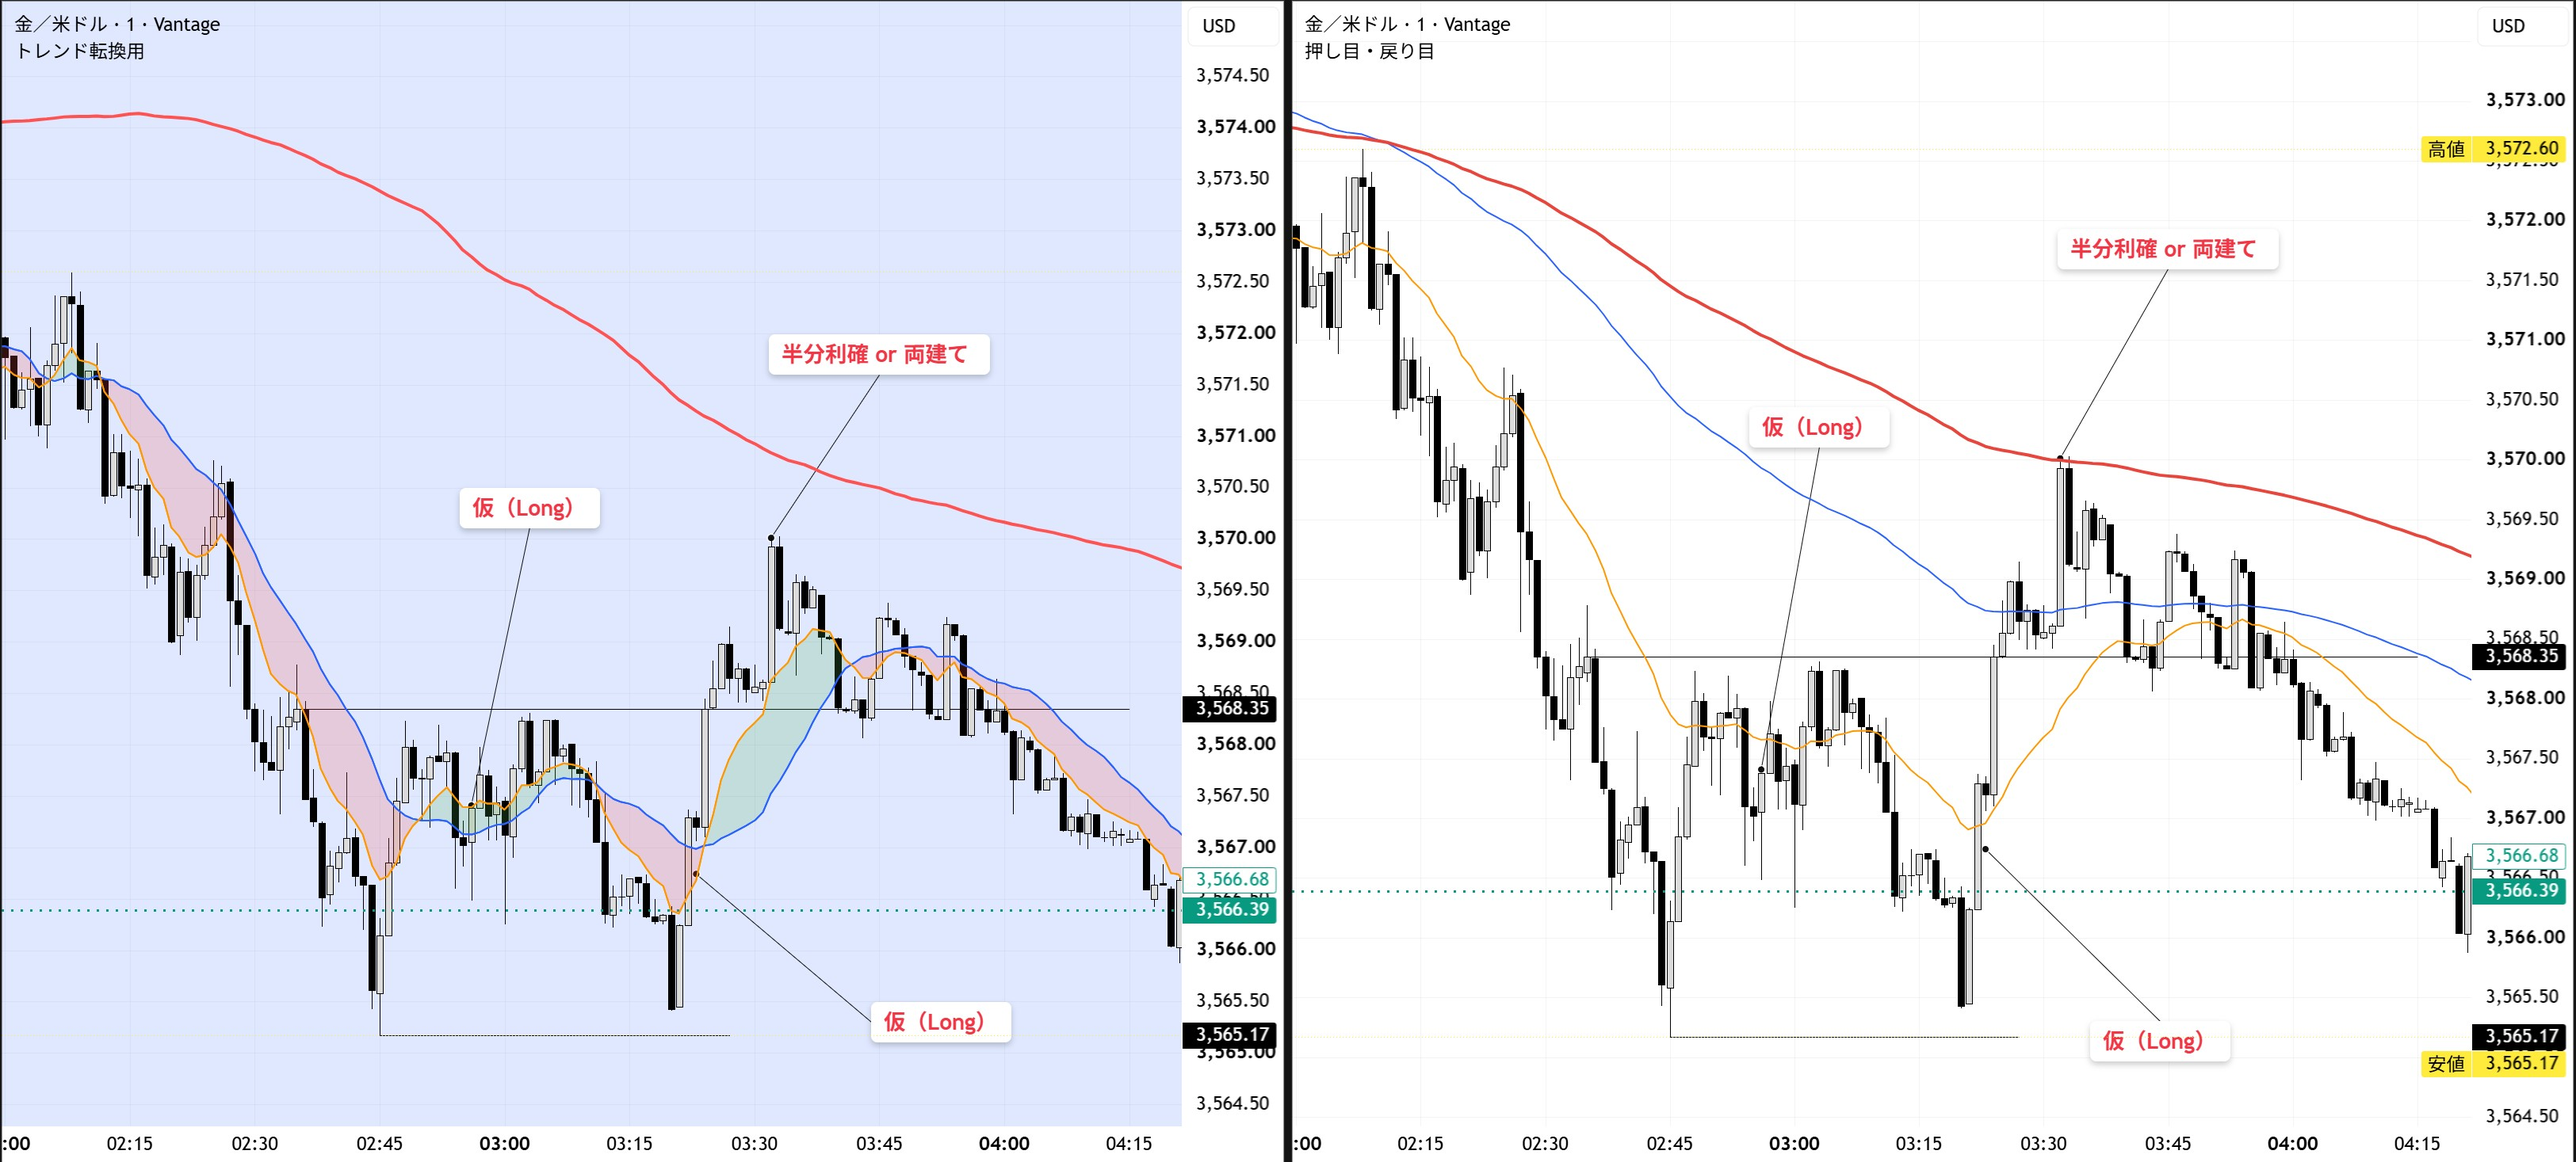
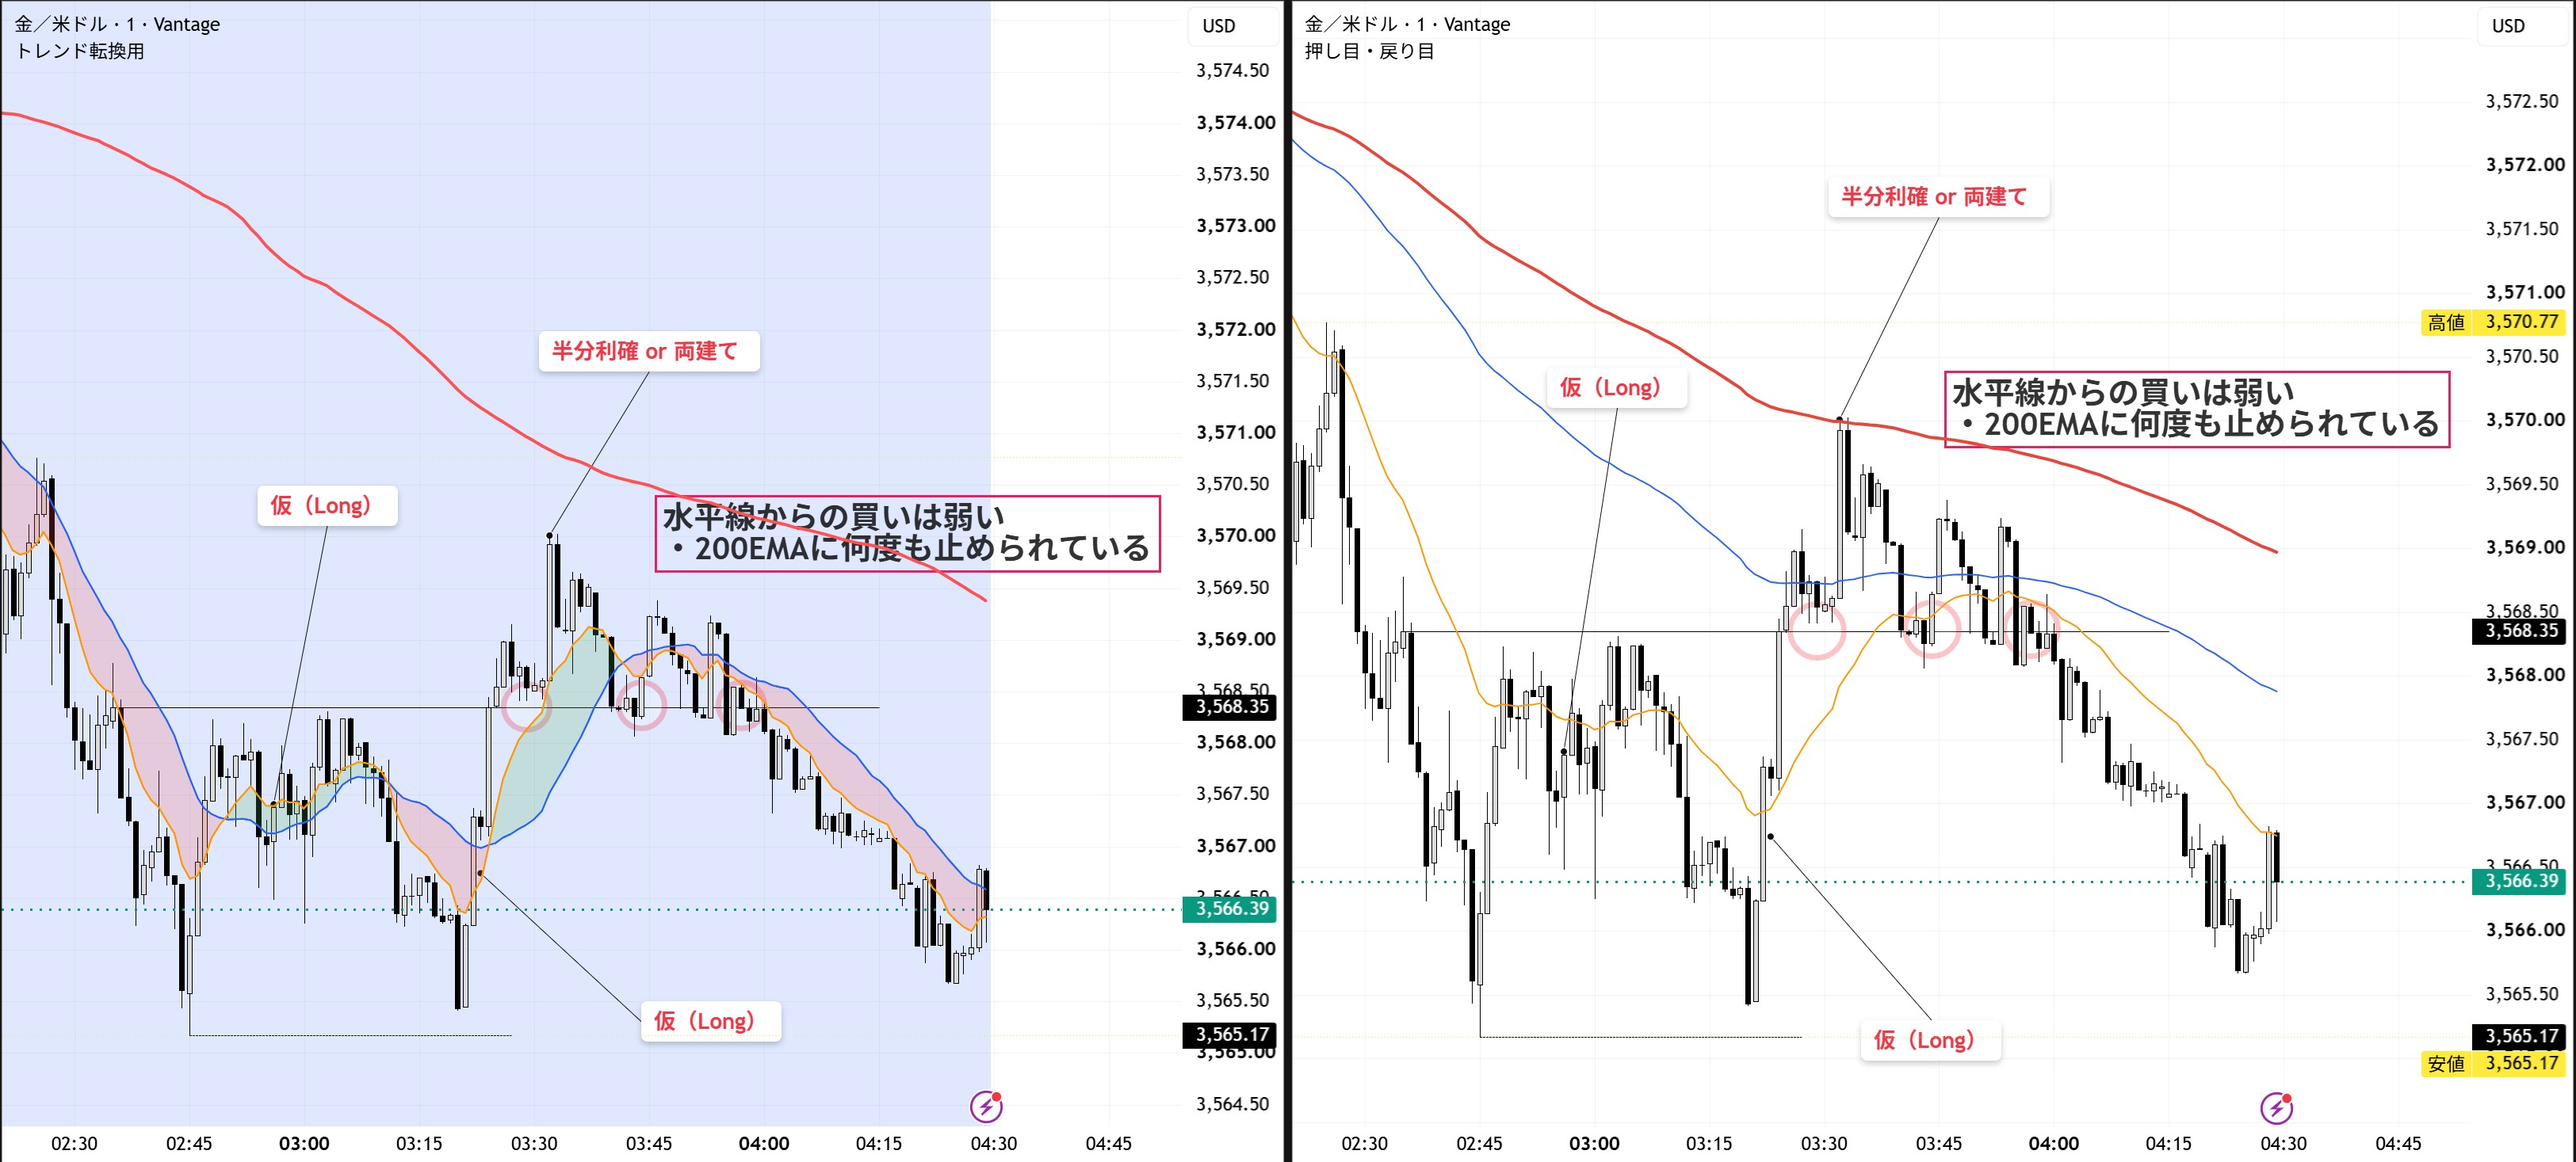
例40: 写真を差し替え、水平線の説明を修正
Claude-Session: https://claude.ai/code/session_01HxS9YaEfLR2yPnioVsHz63

diff --git a/reversal.html b/reversal.html
@@ -133,9 +133,9 @@ body.lb-open { overflow: hidden; }
     <h2>例40：長い陽線のあと、仮（Long）。200で半分利確 or 両建て</h2>
     <p class="note">左：トレンド転換用／右：押し目・戻り目用　※タップで拡大　（1分足）</p>
     <figure class="pic wide">
-      <a href="methods/tachimawari-1m.jpg"><img src="methods/tachimawari-1m.jpg" alt="1分足。長い陽線のあとに仮（Long）が2回。200に当たったら半分利確 or 両建て" loading="lazy"></a>
+      <a href="methods/tachimawari-1m.jpg"><img src="methods/tachimawari-1m.jpg" alt="1分足。長い陽線のあとに仮（Long）が2回。200に当たったら半分利確 or 両建て。後から引いた水平線からの買いは弱い" loading="lazy"></a>
     </figure>
-    <ul class="cap3"><li>長い陽線が出たあとに、仮（Long）。</li><li>200に当たったら、半分利確 or 両建て。</li><li>水平線は、後から引いた線。</li></ul>
+    <ul class="cap3"><li>長い陽線が出たあとに、仮（Long）。</li><li>200に当たったら、半分利確 or 両建て。</li><li>後から引いた水平線からの買いは弱い。200EMAに何度も止められている。</li></ul>
   </section>
   <section class="card big" id="ex39">
     <h2>例39：強い陰線のあと、陰線3本。売りが弱いか見る（ロング）</h2>
